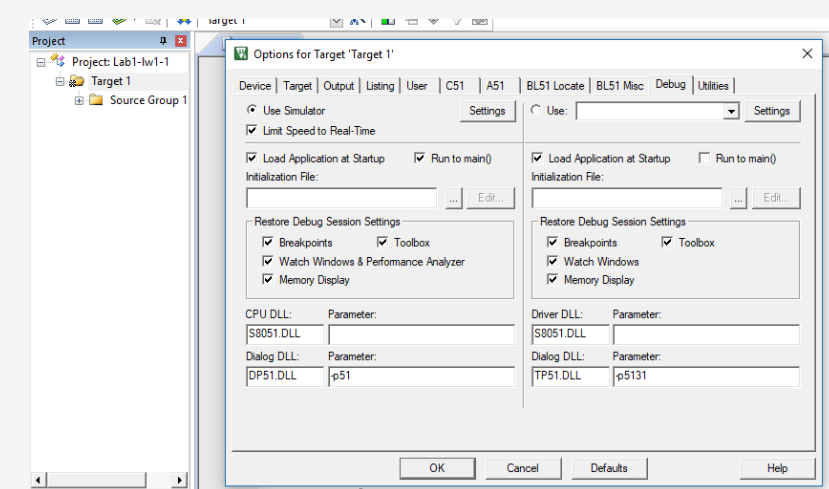
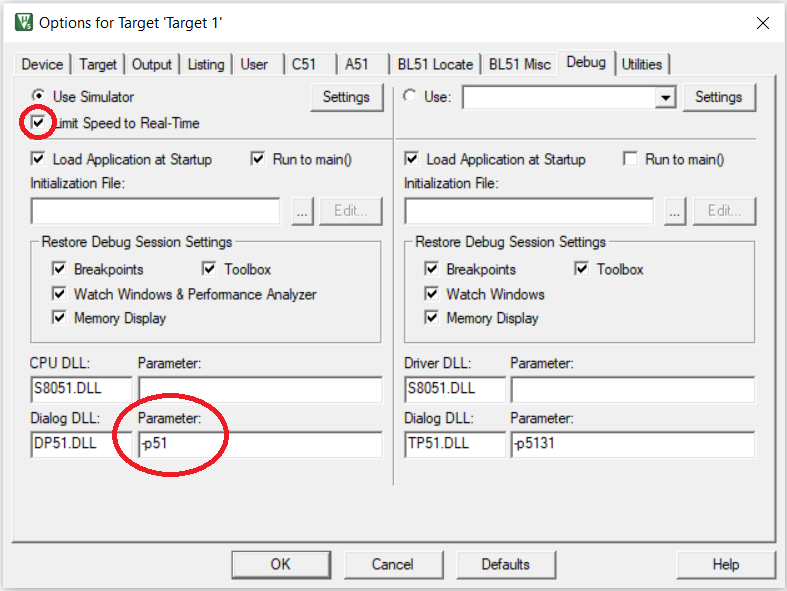
UUpdated image : red circle

Changed region(s): [[0.0, 0.0, 1.0, 1.0]]

diff --git a/searchindex.js b/searchindex.js
@@ -1,1 +1,1 @@
-Search.setIndex({docnames:["dks","faq","index","overview","pt51","s1","s2","tools"],envversion:{"sphinx.domains.c":2,"sphinx.domains.changeset":1,"sphinx.domains.citation":1,"sphinx.domains.cpp":3,"sphinx.domains.index":1,"sphinx.domains.javascript":2,"sphinx.domains.math":2,"sphinx.domains.python":2,"sphinx.domains.rst":2,"sphinx.domains.std":1,sphinx:56},filenames:["dks.rst","faq.rst","index.rst","overview.rst","pt51.rst","s1.rst","s2.rst","tools.rst"],objects:{},objnames:{},objtypes:{},terms:{"0x00000004":1,"0xf800":1,"0xf8ff":1,"2nd":2,"2pm":3,"3rd":2,"5pm":3,"8051":[2,5,6,7],"80x51":1,"814":1,"\u00b5vision":[1,2,5,6],"default":1,"new":7,"try":1,"while":[1,7],For:[1,7],IDE:[2,5,6],The:[0,1,3,4,5,6,7],Use:[1,7],abhinav:3,abov:[0,3,4,5,6,7],access:1,actual:1,address:1,aditya:3,ajai:3,ajith:3,akshai:3,all:[1,7],allow:1,ani:[1,7],apt:7,area:1,arjun:3,ashish:3,assist:3,at89c5131:2,attempt:[5,6],avail:[0,3,4,5,6,7],avali:6,baviskar:3,below:7,bhaganagar:3,bhuyashi:3,board:[2,7],bombai:3,build:7,c51:7,c51v960a:7,can:[1,7],caus:1,chang:[1,7],check:[1,7],checkbox:7,choos:1,click:[1,7],code:[1,7],com:[1,7],command:[1,7],compil:7,content:2,continu:5,correct:[1,7],could:[1,7],cours:2,crash:7,creat:[1,7],data:1,datasheet:2,date:3,dattatrai:3,debug:1,debugg:[1,7],deck:[0,3,4,7],defin:1,deka:3,demo:7,depart:3,describ:1,descript:7,detail:7,develop:2,devesh:3,devic:7,dhakan:3,dialog:[1,7],differ:7,dinesh:[2,3],distribut:7,dll:7,doc:1,doubl:7,dp51:7,driver:7,dure:1,each:1,edit:7,ee337:3,ekatpur:3,electr:3,engin:3,ensur:1,enter:1,environ:7,error:[1,7],eval:7,exampl:[1,7],exe:7,execut:[1,7],experi:[5,6],faculti:3,familiar:6,featur:7,field:7,file:[1,7],find:1,fix:7,flip:2,folder:7,follow:[1,5,6,7],format:[1,2],from:[1,5],gajulap:3,gener:1,georg:3,get:6,hardwar:1,has:7,here:[0,3,4,5,6,7],hex:2,high:7,himanshu:3,how:1,htm:[1,7],http:[1,7],iit:3,incorrectli:1,ini:1,initi:1,instruct:[2,5,6,7],instructor:2,integr:7,intel:2,interrupt:2,introduct:[2,7],isa:5,jeevan:3,joseph:3,kale:3,keep:7,keil:[1,2,5,6],kumar:3,lab:3,left:7,level:7,limit:7,line:7,linux:7,load:[1,7],locat:1,look:5,lost:1,loui:3,made:1,madhukar:3,madhumita:3,mahesh:3,manag:7,manual:2,map:1,mark:1,match:1,memori:1,messag:1,microcontrol:[2,7],microprocessor:3,might:1,mondai:3,more:[5,6,7],naga:3,need:7,next:1,nihar:3,nijil:3,nikhil:3,nilesh:3,non:7,note:2,object:1,onc:[1,7],onli:1,option:[1,7],other:[1,7],outsid:1,overview:2,p51:7,packag:7,pampatwar:3,pane:7,paramet:7,patkar:3,pdf:[0,3,4,5,6,7],perform:7,permiss:1,permit:1,pointer:1,prashant:3,prefix:1,press:7,prof:2,program:[1,7],project:[1,7],put:1,raj:3,rajbabu:3,ramrao:3,rang:1,rashmi:3,read:1,real:7,rebuild:7,reddi:3,refer:1,regist:7,relev:7,requir:1,resolut:1,resolv:1,resourc:[2,5,6],right:7,rohit:3,run:[3,7],rutuja:3,sabitha:3,sachin:3,same:7,sancho:3,sanghvi:3,saravanan:3,sarvesh:3,schedul:2,screenshot:7,second:3,section:[2,7],see:[5,6,7],segment:1,select:7,sens:7,serial:2,session:[1,7],set:[1,2,6],shah:3,sharma:[2,3],sheet:[5,6],shirish:3,should:1,simmi:3,simpli:7,simul:1,singhariya:3,slide:[0,3,4,7],sourc:[1,7],space:1,specifi:[1,7],speed:7,sridhar:3,stabl:7,staff:3,step:7,stop:7,student:3,studio:7,sudo:7,support:1,susan:3,swadha:3,tabl:1,target:[1,7],targetnam:7,task:7,teach:3,text:7,therefor:1,thi:[1,3],third:3,through:7,tick:7,time:7,timer:2,tool:2,type:1,ubuntu:7,under:1,unexpect:1,uniniti:1,unmap:1,updat:1,use:7,used:7,useful:1,user:[2,7],uses:1,using:[1,7],usual:1,vaddi:3,valid:1,variabl:1,velmurugan:3,venkata:3,video:7,vidur:3,vijayakumaran:3,vikash:3,violat:1,visalakshi:3,visual:7,vivekanand:3,walk:7,wani:3,webpag:3,wednesdai:3,when:1,whenev:1,where:7,window:[1,7],wine:7,without:7,workflow:7,would:7,write:1,www:[1,7],year:3,you:[1,7],your:1},titles:["Prof. Dinesh K Sharma\u2019s 8051 Notes","FAQ page","EE337 Microprocessor Lab","Course Overview","Pt-51 Board Resources","Section 1 (2nd yr UG)","Section 2 (3rd yr UG)","Development Tools"],titleterms:{"2nd":5,"3rd":6,"8051":[0,4],"\u00b5vision":7,IDE:7,at89c5131:4,board:4,cours:3,datasheet:4,debug:7,develop:7,dinesh:0,download:7,ee337:2,faq:1,flip:7,format:0,get:7,hex:0,instal:7,instruct:4,instructor:3,intel:0,interrupt:0,introduct:0,keil:7,lab:[2,5,6],manual:4,microcontrol:0,microprocessor:2,note:0,overview:3,page:1,prof:0,resourc:4,schedul:3,section:[5,6],serial:0,set:4,sharma:0,start:7,timer:0,tool:7,user:4}})
+Search.setIndex({docnames:["dks","faq","index","overview","pt51","s1","s2","tools"],envversion:{"sphinx.domains.c":2,"sphinx.domains.changeset":1,"sphinx.domains.citation":1,"sphinx.domains.cpp":3,"sphinx.domains.index":1,"sphinx.domains.javascript":2,"sphinx.domains.math":2,"sphinx.domains.python":2,"sphinx.domains.rst":2,"sphinx.domains.std":1,sphinx:56},filenames:["dks.rst","faq.rst","index.rst","overview.rst","pt51.rst","s1.rst","s2.rst","tools.rst"],objects:{},objnames:{},objtypes:{},terms:{"0x00000004":1,"0xf800":1,"0xf8ff":1,"2nd":2,"2pm":3,"3rd":2,"5pm":3,"8051":[2,5,6,7],"80x51":1,"814":1,"\u00b5vision":[1,2,5,6],"default":1,"new":7,"try":1,"while":[1,7],For:[1,7],IDE:[2,5,6],The:[0,1,3,4,5,6,7],Use:[1,7],abhinav:3,abov:[0,3,4,5,6,7],access:1,actual:1,address:1,aditya:3,ajai:3,ajith:3,akshai:3,all:[1,7],allow:1,ani:[1,7],apt:7,area:1,arjun:3,ashish:3,assist:3,at89c5131:2,attempt:[5,6],aus:[],avail:[0,3,4,5,6,7],avali:6,baviskar:3,below:7,bhaganagar:3,bhuyashi:3,blah:[],board:[2,7],bombai:3,build:7,c51:7,c51v960a:7,can:[1,7],caus:1,chang:[1,7],check:[1,7],checkbox:7,choos:1,click:[1,7],code:[1,7],com:[1,7],command:[1,7],compil:7,content:2,continu:5,correct:[1,7],could:[1,7],cours:2,crash:7,creat:[1,7],data:1,datasheet:2,date:3,dattatrai:3,debug:1,debugg:[1,7],deck:[0,3,4,7],defin:1,deka:3,demo:7,depart:3,describ:1,descript:7,detail:7,develop:2,devesh:3,devic:7,dhakan:3,dialog:[1,7],differ:7,dinesh:[2,3],distribut:7,dll:7,doc:1,doubl:7,download:[],dp51:[],driver:7,dure:1,each:1,edit:7,ee337:3,ekatpur:3,electr:3,engin:3,ensur:1,enter:1,environ:7,error:[1,7],esolut:[],eval:7,exampl:[1,7],exe:7,execut:[1,7],experi:[5,6],faculti:3,familiar:6,faq:[],featur:7,field:7,file:[1,7],find:1,fix:7,flip:2,folder:7,follow:[1,5,6,7],format:[1,2],from:[1,5],gajulap:3,gener:1,georg:3,get:6,hardwar:1,has:7,here:[0,3,4,5,6,7],hex:2,high:7,himanshu:3,how:1,htm:[1,7],http:[1,7],iit:3,incorrectli:1,ini:1,initi:1,instal:[],instruct:[2,5,6,7],instructor:2,integr:7,intel:2,interrupt:2,introduct:[2,7],isa:5,jeevan:3,joseph:3,kale:3,keep:7,keil:[1,2,5,6],kumar:3,lab:3,left:7,level:7,limit:7,line:7,linux:7,load:[1,7],locat:1,look:5,lost:1,loui:3,made:1,madhukar:3,madhumita:3,mahesh:3,man:[],manag:7,manual:2,map:1,mark:1,match:1,memori:1,messag:1,microcontrol:[2,7],microprocessor:3,might:1,mondai:3,more:[5,6,7],naga:3,need:7,next:1,nihar:3,nijil:3,nikhil:3,nilesh:3,non:7,note:2,object:1,onc:[1,7],onli:1,open:[],oper:[],option:[1,7],other:[1,7],outsid:1,overview:2,p5131:7,p51:7,packag:7,page:[],pampatwar:3,pane:7,paramet:7,patkar:3,pdf:[0,3,4,5,6,7],perform:7,permiss:1,permit:1,pointer:1,prashant:3,prefix:1,press:7,prof:2,program:[1,7],project:[1,7],put:1,raj:3,rajbabu:3,ramrao:3,rang:1,rashmi:3,read:1,real:7,rebuild:7,reddi:3,refer:1,regist:7,relev:7,requir:1,resolut:1,resolv:1,resourc:[2,5,6],right:7,rohit:3,run:[3,7],rutuja:3,sabitha:3,sachin:3,same:7,sancho:3,sanghvi:3,saravanan:3,sarvesh:3,schedul:2,screenshot:7,second:3,section:[2,7],see:[5,6,7],segment:1,select:7,sens:7,serial:2,session:[1,7],set:[1,2,6],shah:3,sharma:[2,3],sheet:[5,6],shirish:3,should:1,simmi:3,simpli:7,simul:1,singhariya:3,slide:[0,3,4,7],sourc:[1,7],sours:[],space:1,specifi:[1,7],speed:7,sridhar:3,stabl:7,staff:3,step:7,stop:7,student:3,studio:7,sudo:7,support:1,susan:3,swadha:3,tabl:1,target:[1,7],targetnam:7,task:7,teach:3,termin:[],text:7,therefor:1,thi:[1,3],third:3,through:7,tick:7,time:7,timer:2,todo:[],tool:2,type:1,ubuntu:7,under:1,unexpect:1,uniniti:1,unmap:1,updat:1,use:7,used:7,useful:1,user:[2,7],uses:1,using:[1,7],usual:1,uv3:[],uv3_cm_displai:[],uv4:[],uv4_db_cmd_input_fil:[],vaddi:3,valid:1,variabl:1,velmurugan:3,venkata:3,video:7,vidur:3,vijayakumaran:3,vikash:3,violat:1,visalakshi:3,visual:7,vivekanand:3,walk:7,wani:3,webpag:3,wednesdai:3,when:1,whenev:1,where:7,window:[1,7],wine:7,without:7,workflow:7,would:7,write:1,www:[1,7],year:3,you:[1,7],your:1},titles:["Prof. Dinesh K Sharma\u2019s 8051 Notes","FAQ page","EE337 Microprocessor Lab","Course Overview","Pt-51 Board Resources","Section 1 (2nd yr UG)","Section 2 (3rd yr UG)","Development Tools"],titleterms:{"2nd":5,"3rd":6,"8051":[0,4],"\u00b5vision":7,IDE:7,at89c5131:4,board:4,cours:3,datasheet:4,debug:7,develop:7,dinesh:0,download:7,ee337:2,faq:1,flip:7,format:0,get:7,hex:0,instal:7,instruct:4,instructor:3,intel:0,interrupt:0,introduct:0,keil:7,lab:[2,5,6],manual:4,microcontrol:0,microprocessor:2,note:0,oper:[],overview:3,page:1,prof:0,resourc:4,schedul:3,section:[5,6],serial:0,set:4,sharma:0,start:7,timer:0,tool:7,user:4}})

diff --git a/dks.html b/dks.html
@@ -38,6 +38,7 @@
     
     <link rel="index" title="Index" href="genindex.html" />
     <link rel="search" title="Search" href="search.html" />
+    <link rel="next" title="FAQ page" href="faq.html" />
     <link rel="prev" title="Pt-51 Board Resources" href="pt51.html" /> 
 </head>
 
@@ -86,7 +87,6 @@
               <p class="caption"><span class="caption-text">Contents:</span></p>
 <ul class="current">
 <li class="toctree-l1"><a class="reference internal" href="overview.html">Course Overview</a></li>
-<li class="toctree-l1"><a class="reference internal" href="s1.html">Section 1 (2nd yr UG)</a></li>
 <li class="toctree-l1"><a class="reference internal" href="s2.html">Section 2 (3rd yr UG)</a></li>
 <li class="toctree-l1"><a class="reference internal" href="tools.html">Development Tools</a></li>
 <li class="toctree-l1"><a class="reference internal" href="pt51.html">Pt-51 Board Resources</a></li>
@@ -98,6 +98,7 @@
 <li class="toctree-l2"><a class="reference internal" href="#intel-hex-format">Intel Hex Format</a></li>
 </ul>
 </li>
+<li class="toctree-l1"><a class="reference internal" href="faq.html">FAQ page</a></li>
 </ul>
 
             
@@ -195,6 +196,7 @@
           </div>
           <footer>
     <div class="rst-footer-buttons" role="navigation" aria-label="footer navigation">
+        <a href="faq.html" class="btn btn-neutral float-right" title="FAQ page" accesskey="n" rel="next">Next <span class="fa fa-arrow-circle-right" aria-hidden="true"></span></a>
         <a href="pt51.html" class="btn btn-neutral float-left" title="Pt-51 Board Resources" accesskey="p" rel="prev"><span class="fa fa-arrow-circle-left" aria-hidden="true"></span> Previous</a>
     </div>
 

diff --git a/tools.html b/tools.html
@@ -242,7 +242,7 @@
 <li><p>Right click on the target folder (at the left pane).</p></li>
 <li><p>Select <code class="docutils literal notranslate"><span class="pre">Options</span> <span class="pre">for</span> <span class="pre">Target</span> <span class="pre">`&lt;TargetName&gt;`</span></code>.</p></li>
 <li><p>Select the <code class="docutils literal notranslate"><span class="pre">Debug</span></code> pane.</p></li>
-<li><p>Change the <code class="docutils literal notranslate"><span class="pre">Parameter</span></code> field to the right of <code class="docutils literal notranslate"><span class="pre">Dialog</span> <span class="pre">DLL</span></code> with text <code class="docutils literal notranslate"><span class="pre">DP51.DLL</span></code> to <code class="docutils literal notranslate"><span class="pre">-p51</span></code>.</p></li>
+<li><p>Change the <code class="docutils literal notranslate"><span class="pre">Parameter</span></code> field to the right of <code class="docutils literal notranslate"><span class="pre">Dialog</span> <span class="pre">DLL</span></code> with text <code class="docutils literal notranslate"><span class="pre">-p5131</span></code> to <code class="docutils literal notranslate"><span class="pre">-p51</span></code>.</p></li>
 <li><p>Tick the <code class="docutils literal notranslate"><span class="pre">Limit</span> <span class="pre">Speed</span> <span class="pre">to</span> <span class="pre">Real-Time</span></code> checkbox.</p></li>
 </ol>
 </div></blockquote>

diff --git a/s1.html b/s1.html
@@ -173,7 +173,7 @@
 <div class="section" id="lab-2">
 <h2>Lab 2<a class="headerlink" href="#lab-2" title="Permalink to this headline">¶</a></h2>
 <p>Continuing to look at more instructions from the ISA of 8051.</p>
-<iframe src="//www.slideshare.net/slideshow/embed_code/key/ySWhOdlv78ZXPi" width="668" height="714" frameborder="0" marginwidth="0" marginheight="0" scrolling="no" style="border:1px solid #CCC; border-width:1px; margin-bottom:5px; max-width: 100%;" allowfullscreen> </iframe><p>The pdf of the above lab sheet is available <a class="reference download internal" download="" href="_downloads/acbc7db52629ce9bcf84dec726e89994/lab2-s1.pdf"><code class="xref download docutils literal notranslate"><span class="pre">here</span></code></a>.</p>
+<iframe src="//www.slideshare.net/slideshow/embed_code/key/ySWhOdlv78ZXPi" width="668" height="714" frameborder="0" marginwidth="0" marginheight="0" scrolling="no" style="border:1px solid #CCC; border-width:1px; margin-bottom:5px; max-width: 100%;" allowfullscreen> </iframe><p>The pdf of the above lab sheet is available <code class="xref download docutils literal notranslate"><span class="pre">here</span></code>.</p>
 </div>
 </div>
 

diff --git a/_static/pygments.css b/_static/pygments.css
@@ -1,10 +1,5 @@
-pre { line-height: 125%; }
-td.linenos pre { color: #000000; background-color: #f0f0f0; padding-left: 5px; padding-right: 5px; }
-span.linenos { color: #000000; background-color: #f0f0f0; padding-left: 5px; padding-right: 5px; }
-td.linenos pre.special { color: #000000; background-color: #ffffc0; padding-left: 5px; padding-right: 5px; }
-span.linenos.special { color: #000000; background-color: #ffffc0; padding-left: 5px; padding-right: 5px; }
 .highlight .hll { background-color: #ffffcc }
-.highlight { background: #f8f8f8; }
+.highlight  { background: #f8f8f8; }
 .highlight .c { color: #408080; font-style: italic } /* Comment */
 .highlight .err { border: 1px solid #FF0000 } /* Error */
 .highlight .k { color: #008000; font-weight: bold } /* Keyword */
